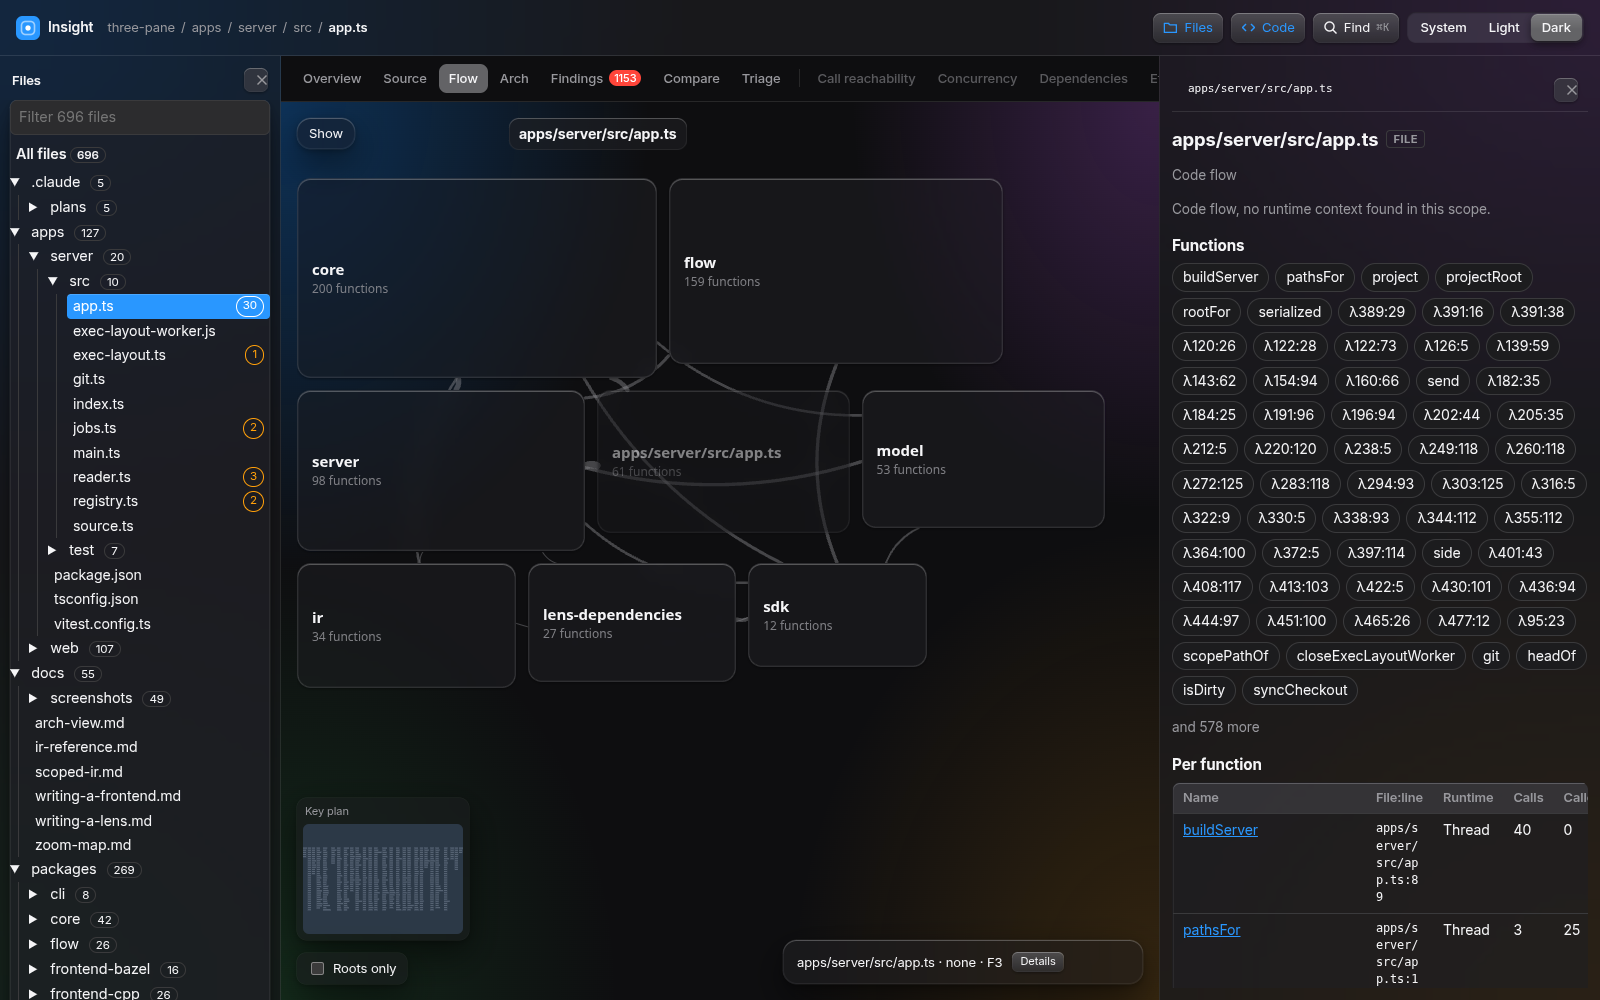
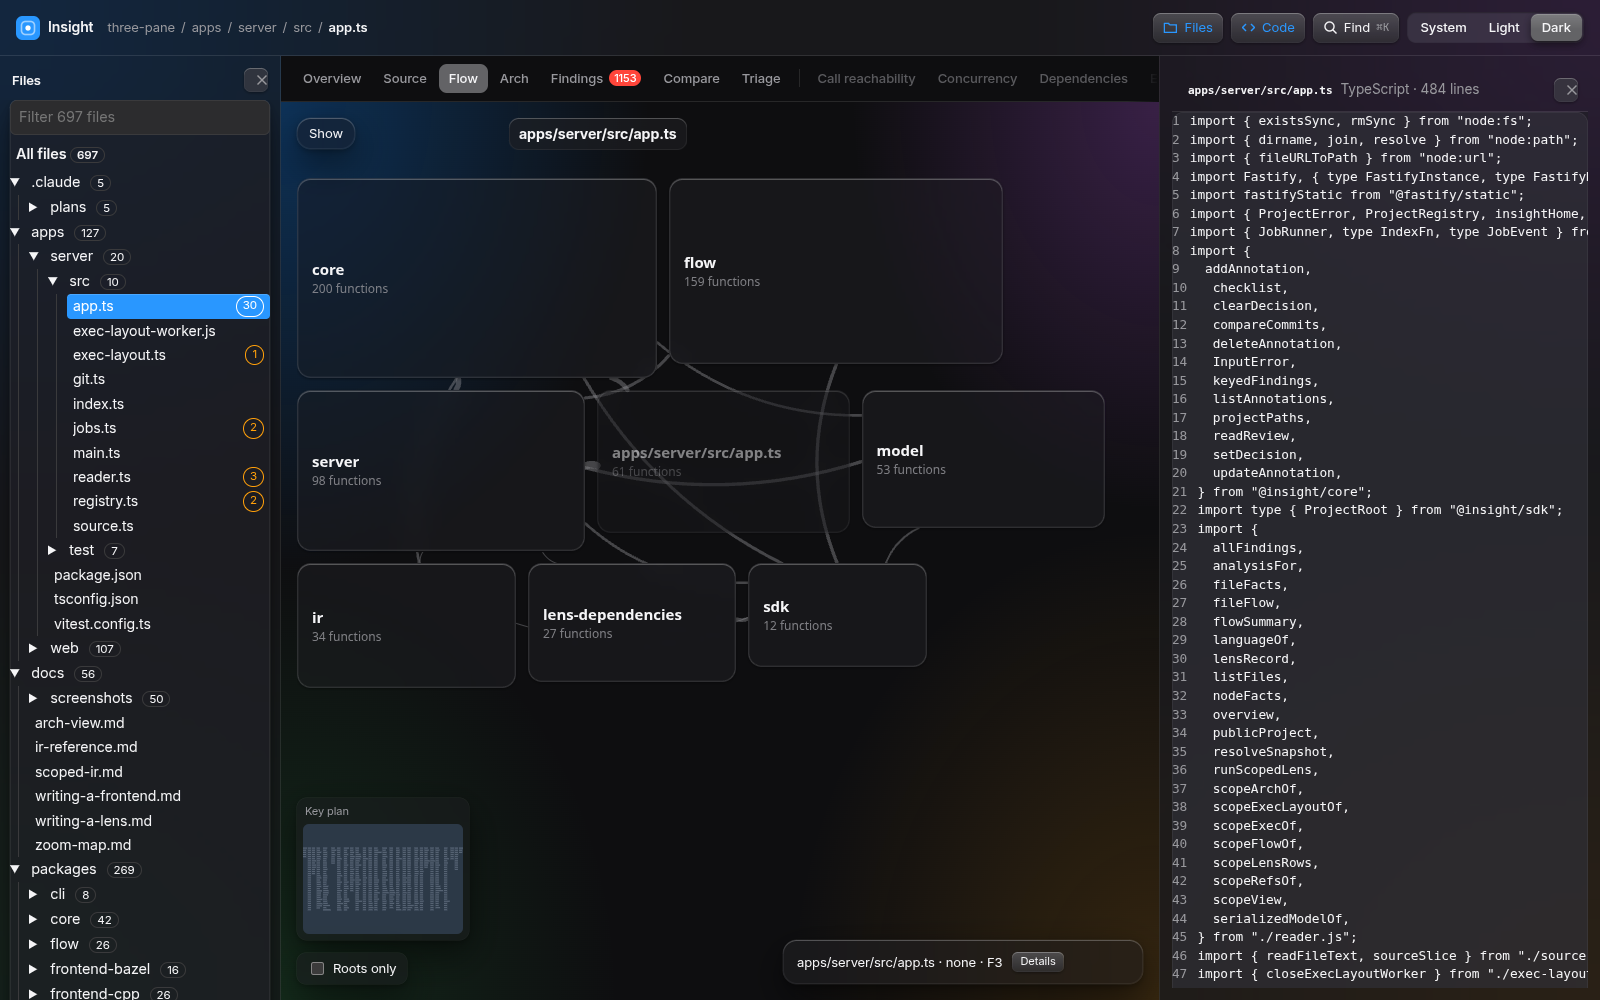
Three-pane round 3: file click shows code, tab overflow, map click
- File click: right pane shows only the file header (path, language,
  line count) and source at top. Container/file scope summary is no
  longer portaled into the code pane; it stays in the centre.
- Layer tabs: horizontal scroll with hidden scrollbar, fade on the
  overflowing edge, and the current tab scrolled into view.
- Map click verified by coordinates: function box opens its header;
  construct box highlights its loop block.
- Refreshed screenshots (03 function click replaced by map-click shots).

diff --git a/apps/web/src/components/sheet/LayerTabs.tsx b/apps/web/src/components/sheet/LayerTabs.tsx
@@ -1,3 +1,5 @@
+import { useEffect, useLayoutEffect, useRef } from "react";
+
 /** One tab of the layers strip: a page of the project, or a lens of the scope. */
 export interface LayerLink {
   id: string;
@@ -17,9 +19,60 @@ interface Props {
 
 /**
  * The layers as tabs over the center pane: the project's pages, then the scope's lenses. Each tab is a link, so it keeps the
- * scope and works from the keyboard and in a new tab. The strip scrolls sideways inside itself on a phone.
+ * scope and works from the keyboard and in a new tab. The strip scrolls sideways inside itself, with no scrollbar: a fade marks
+ * an edge that has tabs past it, and the current tab is brought into view.
  */
 export function LayerTabs({ links }: Props) {
+  const strip = useRef<HTMLElement>(null);
+  const currentId = links.find((l) => l.current)?.id;
+  // The fade shows on an edge only while the strip has more tabs past it, so a strip that fits shows none.
+  const fades = () => {
+    const el = strip.current;
+    if (!el) return;
+    const past = el.scrollWidth - el.clientWidth - el.scrollLeft;
+    el.style.setProperty("--fade-l", el.scrollLeft > 2 ? "24px" : "0px");
+    el.style.setProperty("--fade-r", past > 2 ? "32px" : "0px");
+  };
+  // The current tab is kept in view when the page changes, so a lens past the edge is reachable and visible as current.
+  useLayoutEffect(() => {
+    const el = strip.current;
+    const cur = el?.querySelector<HTMLElement>('[aria-selected="true"]');
+    if (el && cur) {
+      const left = cur.offsetLeft;
+      const right = left + cur.offsetWidth;
+      if (left < el.scrollLeft + 12) el.scrollLeft = left - 12;
+      else if (right > el.scrollLeft + el.clientWidth - 12) el.scrollLeft = right - el.clientWidth + 12;
+    }
+    fades();
+    // The scroll follows the current tab only, not every re-render of the same page.
+    // eslint-disable-next-line react-hooks/exhaustive-deps
+  }, [currentId]);
+  useEffect(() => {
+    const el = strip.current;
+    if (!el) return;
+    // The strip's width settles after the panes lay out, so the fade is measured again on the next frame and on each resize.
+    fades();
+    const frame = requestAnimationFrame(fades);
+    // Web fonts settle after first paint, and they change the tabs' widths.
+    void document.fonts?.ready.then(fades);
+    // A tab's text or count can change without the strip resizing (the Findings count loads after the page), so the content is watched too.
+    const mo = new MutationObserver(fades);
+    mo.observe(el, { childList: true, subtree: true, characterData: true });
+    const ro = new ResizeObserver(fades);
+    ro.observe(el);
+    for (const tab of el.children) ro.observe(tab);
+    el.addEventListener("scroll", fades, { passive: true });
+    window.addEventListener("resize", fades);
+    return () => {
+      cancelAnimationFrame(frame);
+      mo.disconnect();
+      ro.disconnect();
+      el.removeEventListener("scroll", fades);
+      window.removeEventListener("resize", fades);
+    };
+    // fades reads the strip only.
+    // eslint-disable-next-line react-hooks/exhaustive-deps
+  }, []);
   const pages = links.filter((l) => l.group === "page");
   const lenses = links.filter((l) => l.group === "lens");
   const tab = (l: LayerLink) => (
@@ -41,7 +94,7 @@ export function LayerTabs({ links }: Props) {
     </a>
   );
   return (
-    <nav className="sh-tabs" role="tablist" aria-label="Layers">
+    <nav className="sh-tabs" role="tablist" aria-label="Layers" ref={strip}>
       {pages.map(tab)}
       {lenses.length > 0 && (
         <>

diff --git a/apps/web/src/components/FileViewer.tsx b/apps/web/src/components/FileViewer.tsx
@@ -26,10 +26,31 @@ function scrollBoxOf(el: HTMLElement): HTMLElement | null {
  * One source file: its lines with the findings flagged, an outline of its symbols, and the line in `line` scrolled to. A
  * `range` (1-based, inclusive) is tinted line by line instead, and its first line is scrolled to.
  */
-export function FileViewer({ id, path, line, range }: { id: string; path: string; line?: number; range?: LineRange }) {
+export function FileViewer({
+  id,
+  path,
+  line,
+  range,
+  hideHead = false,
+  onLoad,
+}: {
+  id: string;
+  path: string;
+  line?: number;
+  range?: LineRange;
+  /** Without the file's name and facts: a pane that shows them in its own header row. */
+  hideHead?: boolean;
+  /** Called with the file once it has loaded. */
+  onLoad?: (file: FileView) => void;
+}) {
   const [file, setFile] = useState<FileView | null>(null);
   const [error, setError] = useState<string | null>(null);
   const hit = useRef<HTMLDivElement | null>(null);
+  const root = useRef<HTMLDivElement | null>(null);
+  const onLoadRef = useRef(onLoad);
+  useEffect(() => {
+    onLoadRef.current = onLoad;
+  });
   const rangeStart = range?.start;
   const rangeEnd = range?.end;
   const top = rangeStart ?? line;
@@ -60,8 +81,17 @@ export function FileViewer({ id, path, line, range }: { id: string; path: string
         const offset = block === "start" ? 0 : (b.height - r.height) / 2;
         box.scrollTop += r.top - b.top - offset;
       } else hit.current.scrollIntoView({ block });
-    } else if (file && rangeStart === undefined) window.scrollTo({ top: 0 });
+    } else if (file && rangeStart === undefined) {
+      // A file with no line starts at its top: the scrolling box (the side panel's body) keeps its position across files.
+      const box = root.current ? scrollBoxOf(root.current) : null;
+      if (box) box.scrollTop = 0;
+      else window.scrollTo({ top: 0 });
+    }
   }, [file, top, rangeStart, rangeEnd]);
+
+  useEffect(() => {
+    if (file) onLoadRef.current?.(file);
+  }, [file]);
 
   if (error) return <p className="error" role="alert">{error}</p>;
   if (!file) return <p className="muted">Loading</p>;
@@ -70,15 +100,17 @@ export function FileViewer({ id, path, line, range }: { id: string; path: string
   const flagged = new Map<number, string>();
   for (const f of file.findings) if (f.span) flagged.set(f.span.start[0] + 1, f.message);
   return (
-    <div className="panel viewer">
-      <header className="viewer-head">
-        <div>
-          <strong className="mono">{file.file}</strong>
-          <div className="muted small">
-            {[file.language, `${file.totalLines} lines`, humanSize(file.size)].filter(Boolean).join(" · ")}
+    <div className="panel viewer" ref={root}>
+      {!hideHead && (
+        <header className="viewer-head">
+          <div>
+            <strong className="mono">{file.file}</strong>
+            <div className="muted small">
+              {[file.language, `${file.totalLines} lines`, humanSize(file.size)].filter(Boolean).join(" · ")}
+            </div>
           </div>
-        </div>
-      </header>
+        </header>
+      )}
       <div className="viewer-body">
         <pre className="code" data-testid="file-lines" style={{ "--gutter-ch": digits + 1 } as CSSProperties}>
           {file.lines.map((text, i) => {

diff --git a/apps/web/src/styles.css b/apps/web/src/styles.css
@@ -629,7 +629,7 @@ table.grid th { background: var(--faint); }
 .sh-side .sh-source { background: transparent; border: 0; padding: 0; margin: 0; }
 /* The outline sits above the code in the side panel as a collapsible section, never over it. */
 .sh-side .viewer-body { grid-template-columns: minmax(0, 1fr); gap: 10px; }
-.sh-side .outline { position: static; order: -1; max-height: 34vh; overflow: auto; padding: 8px 10px; border-radius: 12px; background: color-mix(in srgb, var(--graphite) 10%, transparent); }
+.sh-side .outline { position: static; max-height: 34vh; overflow: auto; padding: 8px 10px; border-radius: 12px; background: color-mix(in srgb, var(--graphite) 10%, transparent); }
 .sh-side .outline summary { cursor: pointer; font-size: var(--t-sm); font-weight: 600; }
 .sh-side .outline details[open] > summary { margin-bottom: 6px; }
 .sh-side .outline h3 { margin: 8px 0 4px; font-size: var(--t-xs); }
@@ -649,7 +649,7 @@ table.grid th { background: var(--faint); }
 .sh-split::before { content: ""; position: absolute; top: 0; bottom: 0; left: -4px; right: -4px; }
 .sh-split:hover, .sh-split:focus-visible { background: var(--accent); outline: none; }
 .sh-split.is-off { visibility: hidden; }
-.sh-tabs { flex: none; display: flex; align-items: center; gap: 2px; min-width: 0; padding: 8px 12px; overflow-x: auto; scrollbar-width: none; border-bottom: 1px solid var(--hair); }
+.sh-tabs { flex: none; position: relative; display: flex; align-items: center; gap: 2px; min-width: 0; padding: 8px 12px; overflow-x: auto; scrollbar-width: none; border-bottom: 1px solid var(--hair); --fade-l: 0px; --fade-r: 0px; mask-image: linear-gradient(to right, transparent 0, #000 var(--fade-l), #000 calc(100% - var(--fade-r)), transparent 100%); -webkit-mask-image: linear-gradient(to right, transparent 0, #000 var(--fade-l), #000 calc(100% - var(--fade-r)), transparent 100%); }
 .sh-tabs::-webkit-scrollbar { display: none; }
 .sh-tab { display: inline-flex; align-items: center; gap: 6px; flex: none; padding: 5px 10px; border-radius: 8px; color: var(--muted); text-decoration: none; font-size: var(--t-sm); font-weight: 500; white-space: nowrap; }
 .sh-tab:hover { color: var(--ink); background: var(--faint); }
@@ -664,6 +664,8 @@ table.grid th { background: var(--faint); }
 .sh-dock-title { display: flex; align-items: baseline; gap: 8px; min-width: 0; font-size: var(--t-sm); }
 .sh-dock-title strong { flex: none; max-width: 40%; overflow: hidden; text-overflow: ellipsis; white-space: nowrap; }
 .sh-dock-path { min-width: 0; overflow: hidden; text-overflow: ellipsis; white-space: nowrap; }
+.sh-dock-title strong.sh-dock-file { flex: 1 1 auto; max-width: none; }
+.sh-dock-facts { flex: none; white-space: nowrap; }
 .sh-side.is-docked .sh-side-body, .sh-side.is-docked .sh-pinned { padding-right: 0; }
 .sh-side:not(.is-docked) .sh-dock-title { padding-right: 30px; }
 .sh-side .panel.viewer { border: 0; background: transparent; padding: 0; border-radius: 0; box-shadow: none; }

diff --git a/apps/web/src/components/sheet/CodePane.tsx b/apps/web/src/components/sheet/CodePane.tsx
@@ -1,4 +1,5 @@
-import type { Ref } from "react";
+import { useState, type Ref } from "react";
+import type { FileView } from "../../api";
 import { targetPath, type CodeTarget } from "../../codeTarget";
 import type { ZoomStore } from "../../zoom/scene";
 import { FileViewer } from "../FileViewer";
@@ -29,6 +30,9 @@ interface Props {
 export function CodePane({ id, roots, store, target, open, docked, onClose, onSlot }: Props) {
   const fn = target?.kind === "function" ? target : undefined;
   const path = target ? targetPath(target) : "";
+  // A file's facts (language, line count) come from its loaded source; they show only once it has loaded for this path.
+  const [facts, setFacts] = useState<FileView>();
+  const loaded = facts !== undefined && facts.file === path ? facts : undefined;
   const head = fn ? (
     <>
       <strong className="mono">{fn.sel.selected.name}</strong>
@@ -36,8 +40,13 @@ export function CodePane({ id, roots, store, target, open, docked, onClose, onSl
         {fn.sel.selected.file ? `${fn.sel.selected.file}:${fn.sel.selected.line}` : "No source for this function"}
       </span>
     </>
-  ) : target ? (
-    <span className="mono sh-dock-path">{target.kind === "file" && target.line !== undefined ? `${path}:${target.line}` : path}</span>
+  ) : target?.kind === "file" ? (
+    <>
+      <strong className="mono sh-dock-path sh-dock-file">{path}</strong>
+      {loaded && (
+        <span className="muted small sh-dock-facts">{[loaded.language, `${loaded.totalLines} lines`].filter(Boolean).join(" · ")}</span>
+      )}
+    </>
   ) : (
     <span className="muted small">Code</span>
   );
@@ -52,7 +61,16 @@ export function CodePane({ id, roots, store, target, open, docked, onClose, onSl
     >
       <div className="sh-slot" ref={onSlot} />
       {target === undefined && <p className="muted">Click a file or function to see its code.</p>}
-      {target?.kind === "file" && <FileViewer key={path} id={id} path={path} {...(target.line !== undefined ? { line: target.line } : {})} />}
+      {target?.kind === "file" && (
+        <FileViewer
+          key={path}
+          id={id}
+          path={path}
+          hideHead
+          onLoad={setFacts}
+          {...(target.line !== undefined ? { line: target.line } : {})}
+        />
+      )}
       {fn && <FunctionSource id={id} store={store} sel={fn.sel} />}
     </SidePanel>
   );

diff --git a/apps/web/src/components/views/FlowView.tsx b/apps/web/src/components/views/FlowView.tsx
@@ -13,7 +13,6 @@ import { scopeKind } from "../ScopeNote";
 import { LayersPanel, type LayerState } from "../sheet/LayersPanel";
 import { SHEET_MID, SHEET_MAX_WIDTH } from "../sheet/bottomSheet";
 import { TitleBlock, type TitleFacts } from "../sheet/TitleBlock";
-import { ExecContainerPanel } from "../zoom/ExecContainerPanel";
 import { ExecFunctionPanel } from "../zoom/ExecFunctionPanel";
 import { Stat } from "../zoom/FunctionDetail";
 import { ZoomMap, type MapSelection } from "../zoom/ZoomMap";
@@ -148,17 +147,11 @@ export function FlowView({ id, files, scope, fn, roots, store, slot, facts, emph
             layers={mapLayers}
             findings={findingsOn ? counts ?? new Map<string, number>() : undefined}
             detail={(build, openNode) => {
+              // The code pane shows code. A function's exec panel goes there; a file's or folder's summary stays in the centre.
               const view = exec.viewOf(build);
-              if (view === undefined || slot === null) return null;
+              if (view === undefined || slot === null || build.selected === undefined) return null;
               const panel = { id, scope: build.path, roots, store, index: view.index, nodeId: build.nodeId, onOpen: openNode };
-              return createPortal(
-                build.selected ? (
-                  <ExecFunctionPanel {...panel} selected={build.selected} />
-                ) : (
-                  <ExecContainerPanel {...panel} rootKind={kind} />
-                ),
-                slot,
-              );
+              return createPortal(<ExecFunctionPanel {...panel} selected={build.selected} />, slot);
             }}
           />
         </div>
